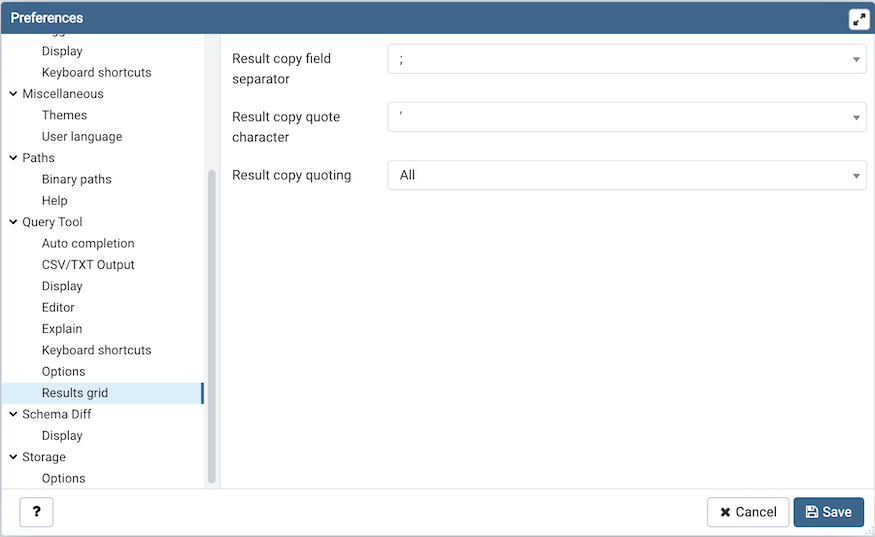
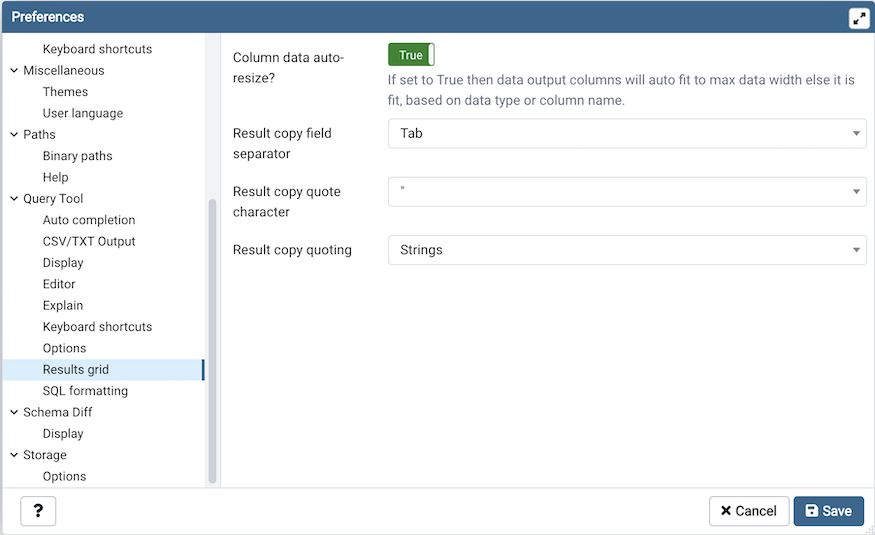
Added support to set auto width of columns by content size in the data output window. Fixes #5954

diff --git a/web/pgadmin/tools/sqleditor/static/js/sqleditor.js b/web/pgadmin/tools/sqleditor/static/js/sqleditor.js
@@ -871,6 +871,13 @@ define('tools.querytool', [
       self.handler['table_name'] = table_name;
       column_size[table_name] = column_size[table_name] || {};
 
+      // Keep track of column_data_auto_resize preferences value
+      if (_.isUndefined(self.auto_resize_column_based_on_data) || self.auto_resize_column_based_on_data !== self.preferences.column_data_auto_resize) {
+        self.auto_resize_column_based_on_data = self.preferences.column_data_auto_resize;
+        column_size[table_name] = {};
+      }
+
+
       _.each(columns, function(c) {
         c.display_name = _.escape(c.display_name);
         c.column_type = _.escape(c.column_type);
@@ -898,13 +905,34 @@ define('tools.querytool', [
         // column name.
         var column_type = c.column_type.trim();
         var label = c.name.length > column_type.length ? _.escape(c.display_name) : column_type;
+        var iconWidth = 0;
+        // increase width to add 'view' button
+        if (c.cell == 'geometry' || c.cell == 'geography') {
+          iconWidth += 28;
+        }
+        // Increase width for editable/read-only icon
+        if(!_.isUndefined(c.can_edit)) {
+          iconWidth += 12;
+        }
 
         if (_.isUndefined(column_size[table_name][options.nonative_field])) {
-          options['width'] = SqlEditorUtils.calculateColumnWidth(label);
-          column_size[table_name][c.nonative_field] = options['width'];
+          /* If column_data_auto_resize is true then for the first time set
+           * the addWidth parameter to iconWidth and if it is false then
+           * calculate width based on longer string among data type or
+           * column name.
+           */
+          if (self.preferences.column_data_auto_resize) {
+            options['addWidth'] = iconWidth;
+            options['width'] = NaN;
+          } else {
+            options['width'] = SqlEditorUtils.calculateColumnWidth(label);
+            options['width'] += iconWidth;
+            column_size[table_name][c.nonative_field] = options['width'];
+          }
         } else {
           options['width'] = column_size[table_name][options.nonative_field];
         }
+
         // If grid is editable then add editor else make it readonly
         if (c.cell == 'oid' && c.name == 'oid') {
           options['editor'] = null;
@@ -927,7 +955,6 @@ define('tools.querytool', [
           options['formatter'] = Slick.Formatters.Binary;
         } else if (c.cell == 'geometry' || c.cell == 'geography') {
           // increase width to add 'view' button
-          options['width'] += 28;
           options['can_edit'] = false;
         } else {
           options['editor'] = c.can_edit ? Slick.Editors.pgText :
@@ -936,9 +963,6 @@ define('tools.querytool', [
         }
 
         if(!_.isUndefined(c.can_edit)) {
-          // Increase width for editable/read-only icon
-          options['width'] += 12;
-
           let tooltip = '';
           if(c.can_edit)
             tooltip = gettext('Editable column');
@@ -1148,6 +1172,10 @@ define('tools.querytool', [
       dataView.onRowsChanged.subscribe(function(e, args) {
         grid.invalidateRows(args.rows);
         grid.render();
+        // Resize all columns if column_data_auto_resize is true.
+        if (self.preferences.column_data_auto_resize) {
+          grid.resizeAllColumns && grid.resizeAllColumns();
+        }
       });
 
       // Listener function which will be called before user updates existing cell

diff --git a/web/pgadmin/static/js/slickgrid/plugins/slick.autocolumnsize.js b/web/pgadmin/static/js/slickgrid/plugins/slick.autocolumnsize.js
@@ -10,7 +10,7 @@
     },
   });
 
-  function AutoColumnSize(maxWidth) {
+  function AutoColumnSize() {
 
     var grid, $container, context,
       keyCodes = {
@@ -19,13 +19,14 @@
 
     function init(_grid) {
       grid = _grid;
-      maxWidth = maxWidth || 200;
 
       $container = $(grid.getContainerNode());
       $container.on('dblclick.autosize', '.slick-resizable-handle', reSizeColumn);
       $container.keydown(handleControlKeys);
 
       context = document.createElement('canvas').getContext('2d');
+      // Expose resizeAllColumns method to call from outside of this file.
+      grid.resizeAllColumns = resizeAllColumns;
     }
 
     function destroy() {
@@ -43,12 +44,16 @@
       var allColumns = grid.getColumns();
       elHeaders.each(function(index, el) {
         var columnDef = $(el).data('column');
+        // Check if width is set then no need to resize that column.
+        if (typeof(columnDef.width) !== 'undefined' && !isNaN(columnDef.width)) {
+          return;
+        }
+
         var headerWidth = getElementWidth(el);
         var colIndex = grid.getColumnIndex(columnDef.id);
         var column = allColumns[colIndex];
         var autoSizeWidth = Math.max(headerWidth, getMaxColumnTextWidth(columnDef, colIndex)) + 1;
-        autoSizeWidth = Math.min(maxWidth, autoSizeWidth);
-        column.width = autoSizeWidth;
+        column.width = autoSizeWidth + (columnDef.addWidth || 0);
       });
       grid.setColumns(allColumns);
       grid.onColumnsResized.notify();

diff --git a/web/pgadmin/tools/sqleditor/utils/query_tool_preferences.py b/web/pgadmin/tools/sqleditor/utils/query_tool_preferences.py
@@ -268,6 +268,16 @@ def register_query_tool_preferences(self):
         }
     )
 
+    self.column_data_auto_resize = self.preference.register(
+        'Results_grid', 'column_data_auto_resize',
+        gettext("Column data auto-resize?"), 'boolean', True,
+        category_label=PREF_LABEL_RESULTS_GRID,
+        help_str=gettext(
+            'If set to True then data output columns will auto fit to max '
+            'data width else it is fit, based on data type or column name.'
+        )
+    )
+
     self.sql_font_size = self.preference.register(
         'Editor', 'sql_font_size',
         gettext("Font size"), 'numeric', '1',

diff --git a/docs/en_US/release_notes_5_3.rst b/docs/en_US/release_notes_5_3.rst
@@ -9,6 +9,7 @@ This release contains a number of bug fixes and new features since the release o
 New features
 ************
 
+| `Issue #5954 <https://redmine.postgresql.org/issues/5954>`_ -  Added support to set auto width of columns by content size in the data output window.
 | `Issue #6158 <https://redmine.postgresql.org/issues/6158>`_ -  Added support to connect PostgreSQL servers via Kerberos authentication.
 | `Issue #6397 <https://redmine.postgresql.org/issues/6397>`_ -  Added "IF NOT EXISTS" clause while creating tables and partition tables which is convenient while using the ERD tool.
 

diff --git a/docs/en_US/preferences.rst b/docs/en_US/preferences.rst
@@ -372,6 +372,9 @@ Use the fields on the *Options* panel to manage editor preferences.
 Use the fields on the *Results grid* panel to specify your formatting
 preferences for copied data.
 
+* When the *Column data auto-resize?* switch is set to *True*, then data
+  output columns will auto fit to max data width. If it is set to *False* then
+  size is set based on data type or column name.
 * Use the *Result copy field separator* drop-down listbox to select the field
   separator for copied data.
 * Use the *Result copy quote character* drop-down listbox to select the quote
